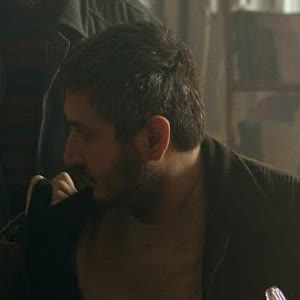
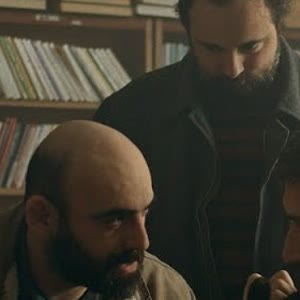
Correctly align characters: Ersoy = Saha Arastirmacisi / Sikko, Yilmaz = Hakli Gerginlik / Balzac, Ilkkan = Futurist

diff --git a/index.html b/index.html
@@ -468,44 +468,44 @@
   <script>
     // =====================================================
     // "GELECEĞİN HABERCİSİ GENÇ YETİŞKİNLER" SÖYLEŞİ VERİLERİ
+    // (Bölüm Analizi: Yılmaz = Haklı & Gergin Baş Konuşmacı, İlkkan = Fütürist & Düşün Emekçisi, Ersoy = Saha Araştırmacısı / Sikko)
     // =====================================================
     const CHARACTERS = {
       yilmaz: {
         id: 'yilmaz',
-        name: 'Yılmaz ("Sikko")',
+        name: 'Yılmaz',
         shortName: 'Yılmaz',
-        title: 'Saha Araştırmacısı & Fütürist',
-        badges: ['Saha Araştırmacısı', 'Sikko', 'Fütürist'],
+        title: 'Baş Konuşmacı & İlkeler Uzmanı',
+        badges: ['Baş Konuşmacı', 'İlkeli Gerginlik', 'Önce Tribini Atan'],
         img: 'img/yilmaz.jpg',
-        slideImg: 'img/sikko_slayt.jpg',
-        slideCaption: 'SİKKO — SAHA ARAŞTIRMACISI',
-        voiceFile: 'yilmaz.mp3',
-        diag: '"Ya kardeşim Ümran Hanım projeksiyon perdesine benim vesikalık fotoğrafımı koyup altına \'SİKKO — Saha Araştırmacısı\' yazmış! Utku şunu değiştir gözünü seveyim!"',
-        metric1: ['Kürsü Unvanı', 'Saha Araştırmacısı'],
-        metric2: ['Slayt Başlığı', 'SİKKO (Vesikalık)'],
-        speaker: 'SAHA ARAŞTIRMACISI YILMAZ\'IN İTİRAZI:',
-        missionDesc: '<strong>Yılmaz:</strong> "Utku bak, lise söyleşisine geldik, arkamdaki dev perdeye vesikalık fotoğrafımla <em>\'SİKKO — Saha Araştırmacısı\'</em> yansıtmışlar! Şu projeksiyon slaytına dokun da kapat şunu!"',
-        step1Toast: 'Adım 1: Projeksiyon perdesindeki "SİKKO — Saha Araştırmacısı" slaytına dokun!',
-        step1Btn: 'SLAYTI DEĞİŞTİR',
-        step2Toast: 'Kumanda masanın diğer ucuna kaydı! Yılmaz: "Anan mı baban mı lan Balzac?! Utku yakala şu kumandayı!"',
+        slideImg: 'img/panel_sahne.jpg',
+        slideCaption: 'GELECEĞİN HABERCİSİ GENÇ YETİŞKİNLER // YILMAZ KÜRSÜDE',
+        diag: '"Ya kardeşim ben liseli gençlere ne anlatacağım?! İlkkan tutturmuş fütüristik vizyon, Ersoy da gitmiş projeksiyona vesikalık fotoğraf koymuş! Utku kurtar bizi şuradan!"',
+        metric1: ['Kürsü Tavrı', 'Haklı Gerginlik'],
+        metric2: ['Balzac Kotası', '%100 İLKELİ'],
+        speaker: 'YILMAZ\'IN KÜRSÜ İSYANI:',
+        missionDesc: '<strong>Yılmaz:</strong> "Utku bak, lise söyleşisine geldik, İlkkan ile Ersoy arkamda yine saçma sapan triplere girdiler! Şu projeksiyon kumandasına dokun da söyleşiyi toparlayalım!"',
+        step1Toast: 'Adım 1: Yılmaz\'ın önündeki projeksiyon kumandasına dokun!',
+        step1Btn: 'KÜRSÜYE MÜDAHALE ET',
+        step2Toast: 'Kumanda masanın diğer ucuna kaydı! Yılmaz: "Anan mı baban mı lan Balzac senin?! Utku yakala şu kumandayı!"',
         step2Btn: 'KUMANDAYI YAKALA',
-        step2Log: '> SÖYLEŞİ KAYDI: Yılmaz kürsüde "Ben saha araştırmacısı mıyım?!" diye bağırıyor...',
-        step3Toast: 'Moderatör Ümran Hanım kürsüye 2 zarf bıraktı! Yılmaz: "Utku aç şunun birini de bitsin bu söyleşi!"',
-        step3CloneA: 'SAHA ARAŞTIRMASI DOSYASI',
-        step3CloneB: 'FÜTÜRİST RAPORU',
-        titleCardSub: '"Ya kardeşim sabahtan beri saha araştırmacısı fütürist diye bizi kürsüye dizdiniz, meğer Utku\'nun doğum günü söyleşisiymiş!"',
-        bdayKicker: 'SAHA ARAŞTIRMACISI YILMAZ\'IN ÖZEL PANEL TEBRİĞİ',
-        bdayQuote: '"Bak Utku, bir Saha Araştırmacısı olarak söylüyorum: Senin gibi kaliteli bir dostu bulmak öyle her fütüristin harcı değil. İyi ki doğdun kardeşim!"',
-        blowBtnText: 'SAHA ARAŞTIRMACISI CİDDİYETİYLE MUMLARI SÖNDÜR',
+        step2Log: '> SÖYLEŞİ KAYDI: Yılmaz kürsüde "Önce davranan tribini atıyor!" diye çıkışıyor...',
+        step3Toast: 'Moderatör Ümran Hanım kürsüye 2 zarf bıraktı! Yılmaz: "Utku aç şunun birini de bitsin bu çile!"',
+        step3CloneA: 'YILMAZ\'IN SAVUNMASI',
+        step3CloneB: 'SÖYLEŞİ TUTANAĞI',
+        titleCardSub: '"Ya kardeşim sabahtan beri lise söyleşisi diye kafa ütülediniz, meğer Utku\'nun doğum günü kutlamasıymış!"',
+        bdayKicker: 'YILMAZ\'IN HAKLI GERGİNLİKLE KUTLADIĞI ÖZEL DOĞUM GÜNÜ',
+        bdayQuote: '"Bak Utku, normalde böyle söyleşiymiş sürprizmiş hiç katlanamam biliyorsun. Ama mevzu sen olunca akan sular durur. İyi ki doğdun kardeşim!"',
+        blowBtnText: 'YILMAZ USULÜ GERGİNLİKLE TÜM MUMLARI SÖNDÜR',
         patches: [
-          ['Baş Saha Araştırmacısı Yetkisi:', 'Yeni yaşında çevrendeki bütün saçma sapan olayları Yılmaz netliğiyle anında analiz edip çözeceksin.'],
-          ['"Anan mı Baban mı Lan Balzac" Kalkanı:', 'Sana entelektüel görünmeye çalışan boş konuşmaları tek cümleyle susturma hakkı.'],
-          ['Duayen & Genç Yetişkin Dokunulmazlığı:', 'Yeni yaşında tüm keyfin ve huzurun %100 garanti altında!']
+          ['"Önce Davranan Tribini Atar" Dokunulmazlığı:', 'Yeni yaşında çevrendeki bütün haksız tripleri tek bakışla bertaraf edebileceksin.'],
+          ['"Anan mı Baban mı Lan Balzac" Kalkanı:', 'Sana boş entelektüel laflar eden herkesi tek cümleyle susturma hakkı.'],
+          ['Kürsü & Masa Hakimiyeti:', 'Yeni yaşında girdiğin her ortamda en haklı ve en net kişi sen olacaksın!']
         ],
         actions: [
-          { label: '📽 "Sikko" Slaytı', msg: '"Yılmaz: \'Oğlum kaldırın şu ekrandan vesikalık Sikko fotoğrafını ya! Utku\'nun doğum günündeyiz!\'"' },
-          { label: '📚 "Lan Balzac!"', msg: '"Yılmaz: \'Anan mı baban mı lan Balzac?!\' dedi ve bütün salon alkıştan yıkıldı!"' },
-          { label: '🔮 Fütürist Yorum', msg: '"Yılmaz: \'Bir saha araştırmacısı olarak Utku\'nun yeni yaşının efsane geçeceğini öngörüyorum!\'"' },
+          { label: '📚 "Lan Balzac!"', msg: '"Yılmaz: \'Anan mı baban mı lan Balzac senin?!\' dedi, salondaki liseliler çılgınca alkışladı!"' },
+          { label: '😤 Haklı Gerginlik', msg: '"Yılmaz: \'Önce davranan tribini atıyor kardeşim!\' diyerek kürsüye vurdu!"' },
+          { label: '☕ Çay Molası', msg: '"Yılmaz: \'Oturuyoruz burada erkek erkeğe Utku\'nun doğum gününü kutluyoruz işte!\'"' },
           { label: '🎂 Mumları Yak', msg: '"Yılmaz kürsüdeki pastanın mumlarını tekrar yaktı! İyi ki doğdun Utku!"', relight: true }
         ]
       },
@@ -519,8 +519,7 @@
         img: 'img/ilkkan.jpg',
         slideImg: 'img/futurist_sahne.jpg',
         slideCaption: 'SEN HEP DERSİN YA YILMAZ, BENİM FÜTÜRİST BİR TARAFIM VAR DİYE',
-        voiceFile: 'ilkkan.mp3',
-        diag: '"Sen hep dersin ya Yılmaz, benim fütürist bir tarafım var diye... Utku\'cuğum bir düşün emekçisi olarak bu söyleşiyi çok farklı bir boyuta taşıyacağız."',
+        diag: '"Sen hep dersin ya Yılmaz, benim fütürist bir tarafım var diye... Utku\'cuğum bir düşün emekçisi olarak genç yetişkinlere vizyon aşılayacağız."',
         metric1: ['Kürsü Unvanı', 'Fütürist & Yazar'],
         metric2: ['Akademik Statü', 'Düşün Emekçisi'],
         speaker: 'FÜTÜRİST İLKKAN\'IN VİZYON SUNUMU:',
@@ -552,41 +551,40 @@
 
       ersoy: {
         id: 'ersoy',
-        name: 'Ersoy',
+        name: 'Ersoy ("Saha Araştırmacısı / Sikko")',
         shortName: 'Ersoy',
-        title: 'Saha Araştırmacısı, Duayen & Genç Yetişkin',
-        badges: ['Saha Araştırmacısı', 'Duayen', 'Genç Yetişkin'],
+        title: 'Saha Araştırmacısı (SKKO)',
+        badges: ['Saha Araştırmacısı', 'Sikko', 'Genç Yetişkin'],
         img: 'img/ersoy.jpg',
-        slideImg: 'img/panel_sahne.jpg',
-        slideCaption: 'GELECEĞİN HABERCİSİ GENÇ YETİŞKİNLER PANELİ',
-        voiceFile: 'ersoy.mp3',
-        diag: '"Utku abi valla Ümran Hanım bana \'sen ne iş yapıyorsun\' deyince heyecanlanıp Saha Araştırmacısı ve Fütürist dedim, şimdi öğrenciler soru soracak..."',
-        metric1: ['Kürsü Unvanı', 'Duayen & Gözlemci'],
-        metric2: ['Saha Deneyimi', 'Yamyam Babaanne'],
-        speaker: 'ERSOY\'UN SÖYLEŞİ İTİRAFI:',
-        missionDesc: '<strong>Ersoy:</strong> "Utku abi ben slaytları karıştırdım galiba, Yılmaz abinin fotoğrafının altına yanlışlıkla <em>Sikko</em> yazdım! Şu projeksiyona dokun da düzeltelim!"',
-        step1Toast: 'Adım 1: Ersoy\'un karıştırdığı projeksiyon slaytına dokun!',
-        step1Btn: 'SLAYTI DÜZELT',
-        step2Toast: 'Slayt iyice karıştı! Ersoy: "Abi yemin ederim babaannemi yamyamlar yerken de böyle olmuştu! Yakala şunu Utku!"',
-        step2Btn: 'PANİKLE MÜDAHALE ET',
-        step2Log: '> SÖYLEŞİ KAYDI: Ersoy lise öğrencilerine alakasız bir aile travması anlatmaya başladı!',
-        step3Toast: 'Kürsüde iki zarf belirdi! Ersoy: "Utku abi hangisini açarsan aç ihale bana kalacak, birini seç!"',
-        step3CloneA: 'ERSOY\'UN SAHA NOTU',
-        step3CloneB: 'ÜMRAN HANIM\'IN ZARFI',
+        slideImg: 'img/sikko_slayt.jpg',
+        slideCaption: 'SİKKO — SAHA ARAŞTIRMACISI',
+        diag: '"Utku abi ben işsizim demek yerine Saha Araştırmacısıyım dedim, Ümran Hanım da projeksiyon perdesine vesikalık fotoğrafımı koyup altına \'SİKKO — Saha Araştırmacısı\' yazmış..."',
+        metric1: ['Kürsü Unvanı', 'Saha Araştırmacısı (SKKO)'],
+        metric2: ['Slayt Başlığı', 'SİKKO (Vesikalık)'],
+        speaker: 'SAHA ARAŞTIRMACISI ERSOY\'UN İTİRAFI:',
+        missionDesc: '<strong>Ersoy:</strong> "Utku abi lise söyleşisine geldik, dev projeksiyon perdesine vesikalık fotoğrafımı yansıtıp <em>\'SİKKO — Saha Araştırmacısı\'</em> yazmışlar! Şuna bir dokun da kapansın gözünü seveyim!"',
+        step1Toast: 'Adım 1: Projeksiyondaki "SİKKO — Saha Araştırmacısı" slaytına dokun!',
+        step1Btn: 'SLAYTI KAPAT',
+        step2Toast: 'Slayt kaydı! Ersoy: "Abi yemin ederim babaannemi yamyamlar yerken de böyle bir telaş olmuştu! Yakala şunu Utku!"',
+        step2Btn: 'PANİKLE YAKALA',
+        step2Log: '> SÖYLEŞİ KAYDI: Ersoy "Artık soranlara işsizim demek yerine saha araştırmacısıyım diyorum" diye anlatıyor...',
+        step3Toast: 'Kürsüde iki gizemli zarf belirdi! Ersoy: "Utku abi hangisini açarsan aç ihale bana kalacak, birini seç!"',
+        step3CloneA: 'SAHA ARAŞTIRMASI RAPORU',
+        step3CloneB: 'ERSOY\'UN İTİRAFI',
         titleCardSub: '"Utku abi valla ben söyleşi slaytlarının arasına yanlışlıkla senin doğum günü pastanı koymuşum, iyi ki doğdun!"',
-        bdayKicker: 'DUAYEN & SAHA ARAŞTIRMACISI ERSOY\'DAN DOĞUM GÜNÜ SÜRPRİZİ',
-        bdayQuote: '"Utku abi bütün konferans salonunu senin doğum günün için topladık! Yeni yaşın çok güzel geçsin, iyi ki doğdun!"',
-        blowBtnText: 'PANİKLE ÜFLEYİP TÜM MUMLARI SÖNDÜR',
+        bdayKicker: 'SAHA ARAŞTIRMACISI ERSOY\'DAN DOĞUM GÜNÜ SÜRPRİZİ',
+        bdayQuote: '"Utku abi bütün konferans salonunu senin doğum günün için topladık! Yeni yaşın sana mutluluk getirsin, iyi ki doğdun!"',
+        blowBtnText: 'SAHA ARAŞTIRMACISI NEFESİYLE MUMLARI SÖNDÜR',
         patches: [
-          ['Kıdemli Saha Araştırmacısı Şansı:', 'Yeni yaşında en absürt krizlerden bile mucizevi şekilde kazançlı çıkacaksın.'],
-          ['Geleceğin Habercisi Ödülü:', 'Bütün yıl boyunca şans, neşe ve bereket hep senin yanında olacak.'],
-          ['Söyleşi Onur Konuğu İmtiyazı:', 'Arkadaş ortamındaki her buluşmada başköşe her zaman Utku\'nun!']
+          ['Kıdemli Saha Araştırmacısı Şansı:', 'Yeni yaşında en absürt durumlardan bile Ersoy gibi mucizevi şekilde kazançlı çıkacaksın.'],
+          ['"Sikko" Slaytı Dokunulmazlığı:', 'İşinde ve hayatında hiçbir aksilik seni yolundan alıkoyamayacak.'],
+          ['Genç Yetişkinler Bereketi:', 'Arkadaş ortamındaki her söyleşide ve kutlamada başköşe Utku\'nun!']
         ],
         actions: [
-          { label: '🏝 Babaanne Anısı', msg: '"Ersoy: \'Tam Utku abinin pastasını keserken aklıma rahmetli babaannemin yamyam anısı geldi...\'"' },
-          { label: '🔍 Saha Araştırması', msg: '"Ersoy: \'Utku abi saha araştırması yaptım, bu yıl senin en efsane yılın olacakmış!\'"' },
-          { label: '🎉 Salon Konfetisi', msg: '"Ersoy yanlış düğmeye bastı ama bütün konferans salonuna altın konfetiler yağdı!"' },
-          { label: '🎂 Mumları Yak', msg: '"Ersoy pastadaki mumları tekrar yakmayı başardı! İyi ki doğdun Utku!"', relight: true }
+          { label: '📽 "Sikko" Slaytı', msg: '"Ersoy: \'Utku abi vesikalık fotoğrafımın altına niye Sikko yazdılar hala anlamadım...\'"' },
+          { label: '🔍 Saha Araştırması', msg: '"Ersoy: \'Saha araştırması yaptım Utku abi, bu yaşın senin zirve yılın olacakmış!\'"' },
+          { label: '🏝 Babaanne Anısı', msg: '"Ersoy: \'Rahmetli babaannem de pastayı böyle üflerdi...\' diyerek herkesi güldürdü!"' },
+          { label: '🎂 Mumları Yak', msg: '"Ersoy yanlış düğmeye bastı ama mumları tekrar yaktı! İyi ki doğdun Utku!"', relight: true }
         ]
       }
     };
